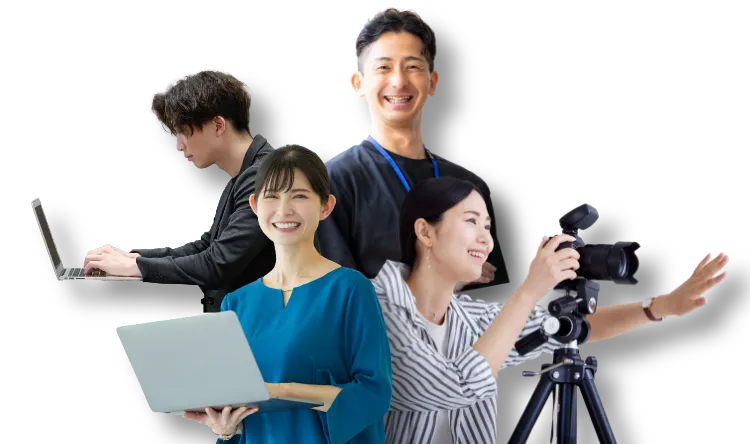
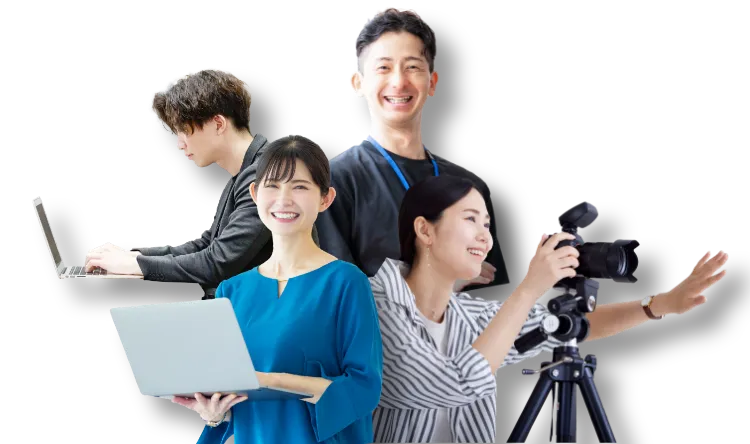
0326先方修正

Changed region(s): [[0.0307, 0.0293, 0.8587, 1.0], [0.828, 0.5563, 0.9813, 0.732], [0.7973, 0.9955, 0.828, 1.0]]

diff --git a/assets/scss/page/_pro.scss b/assets/scss/page/_pro.scss
@@ -12,17 +12,17 @@
     &::before {
       content: "";
       position: absolute;
-      right: rem(-373);
-      bottom: rem(-230);
+      right: rem(-280);
+      bottom: rem(-110);
       background: url(../images/pc/pro-person.webp) no-repeat center center / cover;
-      aspect-ratio: 1165/775;
-      width: rem(1165);
+      aspect-ratio: 1032/606;
+      width: rem(1032);
     }
     @media (768px <= width <= 1024px) {
       &::before {
-        right: rem(-340);
-        bottom: rem(-220);
-        width: rem(1040);
+        right: rem(-270);
+        bottom: rem(-110);
+        width: rem(910);
       }
 
     }
@@ -88,7 +88,7 @@
          left: 50%;
          transform: translateX(-50%);
           right: unset;
-          bottom: rem(-220);
+          bottom: min(rem(-230),-230px);
           background: url(../images/sp/pro-person.webp) no-repeat center center / cover;
           aspect-ratio: 375/222;
           width: rem(375);

diff --git a/assets/scss/page/_worries.scss b/assets/scss/page/_worries.scss
@@ -309,10 +309,12 @@
         padding-inline: rem(10) rem(13);
         width: calc((100% - rem(7.5)) / 2);
         position: relative;
+       z-index: 0;
         &::before {
           background: url(../images/sp/worries-hukidasi.webp) no-repeat center center /
             cover;
           position: absolute;
+          z-index: 1;
           opacity: 0.5;
           top: 0;
           left: 0;
@@ -357,6 +359,8 @@
       .worries__bottom-item-title {
         font-size: rem(17);
         line-height: calc(25 / 17);
+        z-index: 1;
+        position: relative;
       }
       .worries__bottom-item-text {
         margin-top: rem(6);

diff --git a/template-parts/solution.php b/template-parts/solution.php
@@ -4,14 +4,14 @@ if (! defined('ABSPATH')) exit;
 Template Name: 提供サービス一覧
 */
 ?>
-<section class="solution" id="solution">
+<section class="solution" >
     <div class="solution__title">
         <span class="solution__title-midasi">雇用リスクなし！</span>
         <h2 class="solution__title-text">プロ人材を明日から<br class="sp-only">活用できるのが<span class="solution__title-text-color">助っ人さん</span></h2>
     </div>
-    <div class="solution__content">
+    <div class="solution__content" id="solution">
         <div class="wrapper">
-            <div class="solution__content-inner">
+            <div class="solution__content-inner ">
                 <h3>圧倒的な対応範囲！<br>
                     助っ人さんならWeb業務をまるごと解決</h3>
 
@@ -85,7 +85,7 @@ Template Name: 提供サービス一覧
                     </li>
                 </ul>
                 <p class="solution__content-note">
-                    この他にも対応可能な作業も多数ございます<br class="sp-only">のでお気軽にご相談ください！
+                    この他にも対応可能な作業も多数ございます<br class="sp-only">ので、お気軽にご相談ください！
                 </p><!-- /solution__content-note -->
                 <div class="solution__content-link-wrapper">
                     <a href="<?php echo get_template_directory_uri(); ?>/assets/pdf/graf.pdf" class="solution__content-link" target="_blank">

diff --git a/template-parts/worries.php b/template-parts/worries.php
@@ -52,7 +52,7 @@ Template Name: お悩み
                 </li>
                 <li class="worries__bottom-item">
                     <p class="worries__bottom-item-title">
-                    引き継ぎ<br class="sp-only">のリスク
+                    担当退職<br class="sp-only">のリスク
                     </p>
                     <p class="worries__bottom-item-text">
                     突然の退職・休職で業務がストップ！ 引き継ぎが不十分だと、<span class="worries__item-line">プロジェクトの遅延や品質低下</span>につながります。        

diff --git a/template-parts/contact.php b/template-parts/contact.php
@@ -1,7 +1,7 @@
 <div class="contact" id="contact">
     <p class="contact__subtitle">Web戦略は助っ人さんに<br class="u-sp">まるごとお任せください！</p>
     <div class="contact__inner wrapper">
-        <div class="bg-white shadow form-table">
+        <div class="bg-white shadow form-table" id="form">
             <p class="contact__title-en">CONTACT</p>
             <h2 class="contact__title">お問い合わせ</h2>
             <p class="contact__text">助っ人さんにお悩みをぶつけてください。情熱を持って対応致します！</p>

diff --git a/template-parts/header.php b/template-parts/header.php
@@ -108,7 +108,7 @@
  
 
   <div class="floating">
-    <a href="<?php echo esc_url(home_url('/#contact')); ?>" class="floating__inner link">
+    <a href="<?php echo esc_url(home_url('/#form')); ?>" class="floating__inner link">
     <img src="<?php echo get_template_directory_uri(); ?>/assets/images/common/mail-icon-white.webp" alt="" width="35" height="35"> 
     <p>お問い合わせ・無料相談</p>
     </a>
